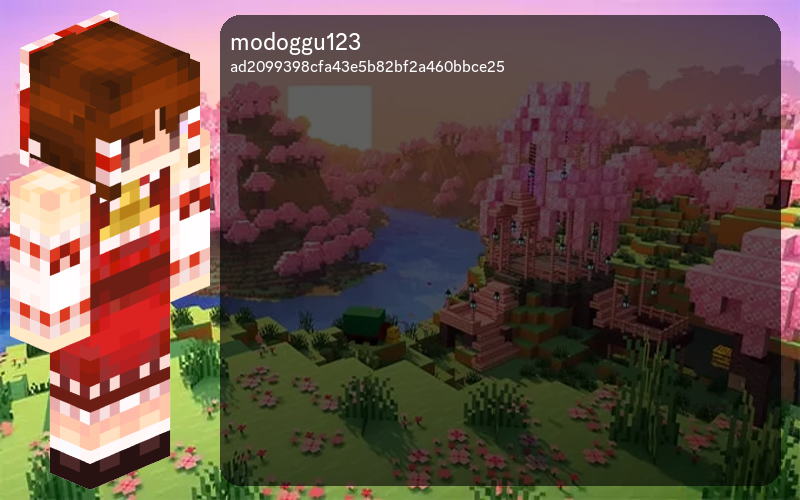
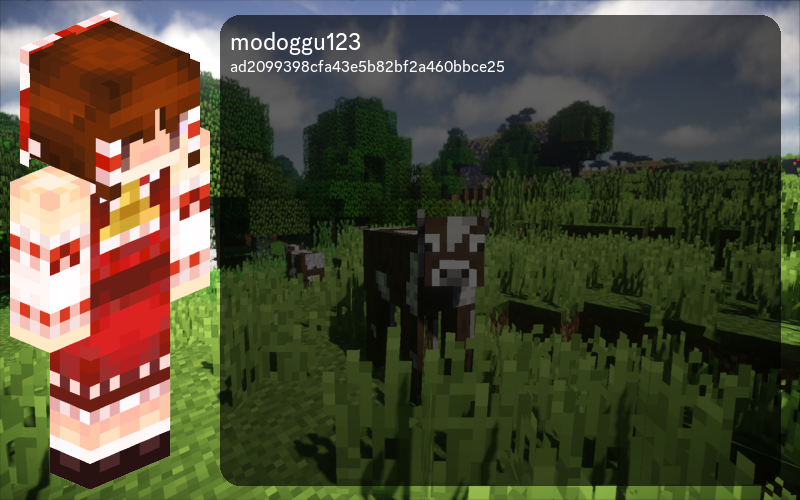
feat: jpg

diff --git a/generate.py b/generate.py
@@ -46,6 +46,8 @@ class MinecraftProfileMaker:
 
         image = Image.open("background/" + background)
 
+        image = image.convert("RGBA")
+
         image = image.resize((self.W, self.H))
 
         image.paste(playerSkinImage, (10, 10), playerSkinImage)
@@ -74,5 +76,5 @@ class MinecraftProfileMaker:
             return io_profile
 
 if __name__ == "__main__":
-    gen = MinecraftProfileMaker(["sakura.png"], ["gg sans Bold.ttf", "gg sans Medium.ttf", "gg sans Regular.ttf", "gg sans Semibold.ttf"])
-    gen.generate("modoggu123", "sakura.png", "gg sans Medium.ttf", "file")
+    gen = MinecraftProfileMaker(["sakura.png", "monster_steve.jpeg", "cow.jpg"], ["gg sans Bold.ttf", "gg sans Medium.ttf", "gg sans Regular.ttf", "gg sans Semibold.ttf"])
+    gen.generate("modoggu123", "cow.jpg", "gg sans Medium.ttf", "file")
